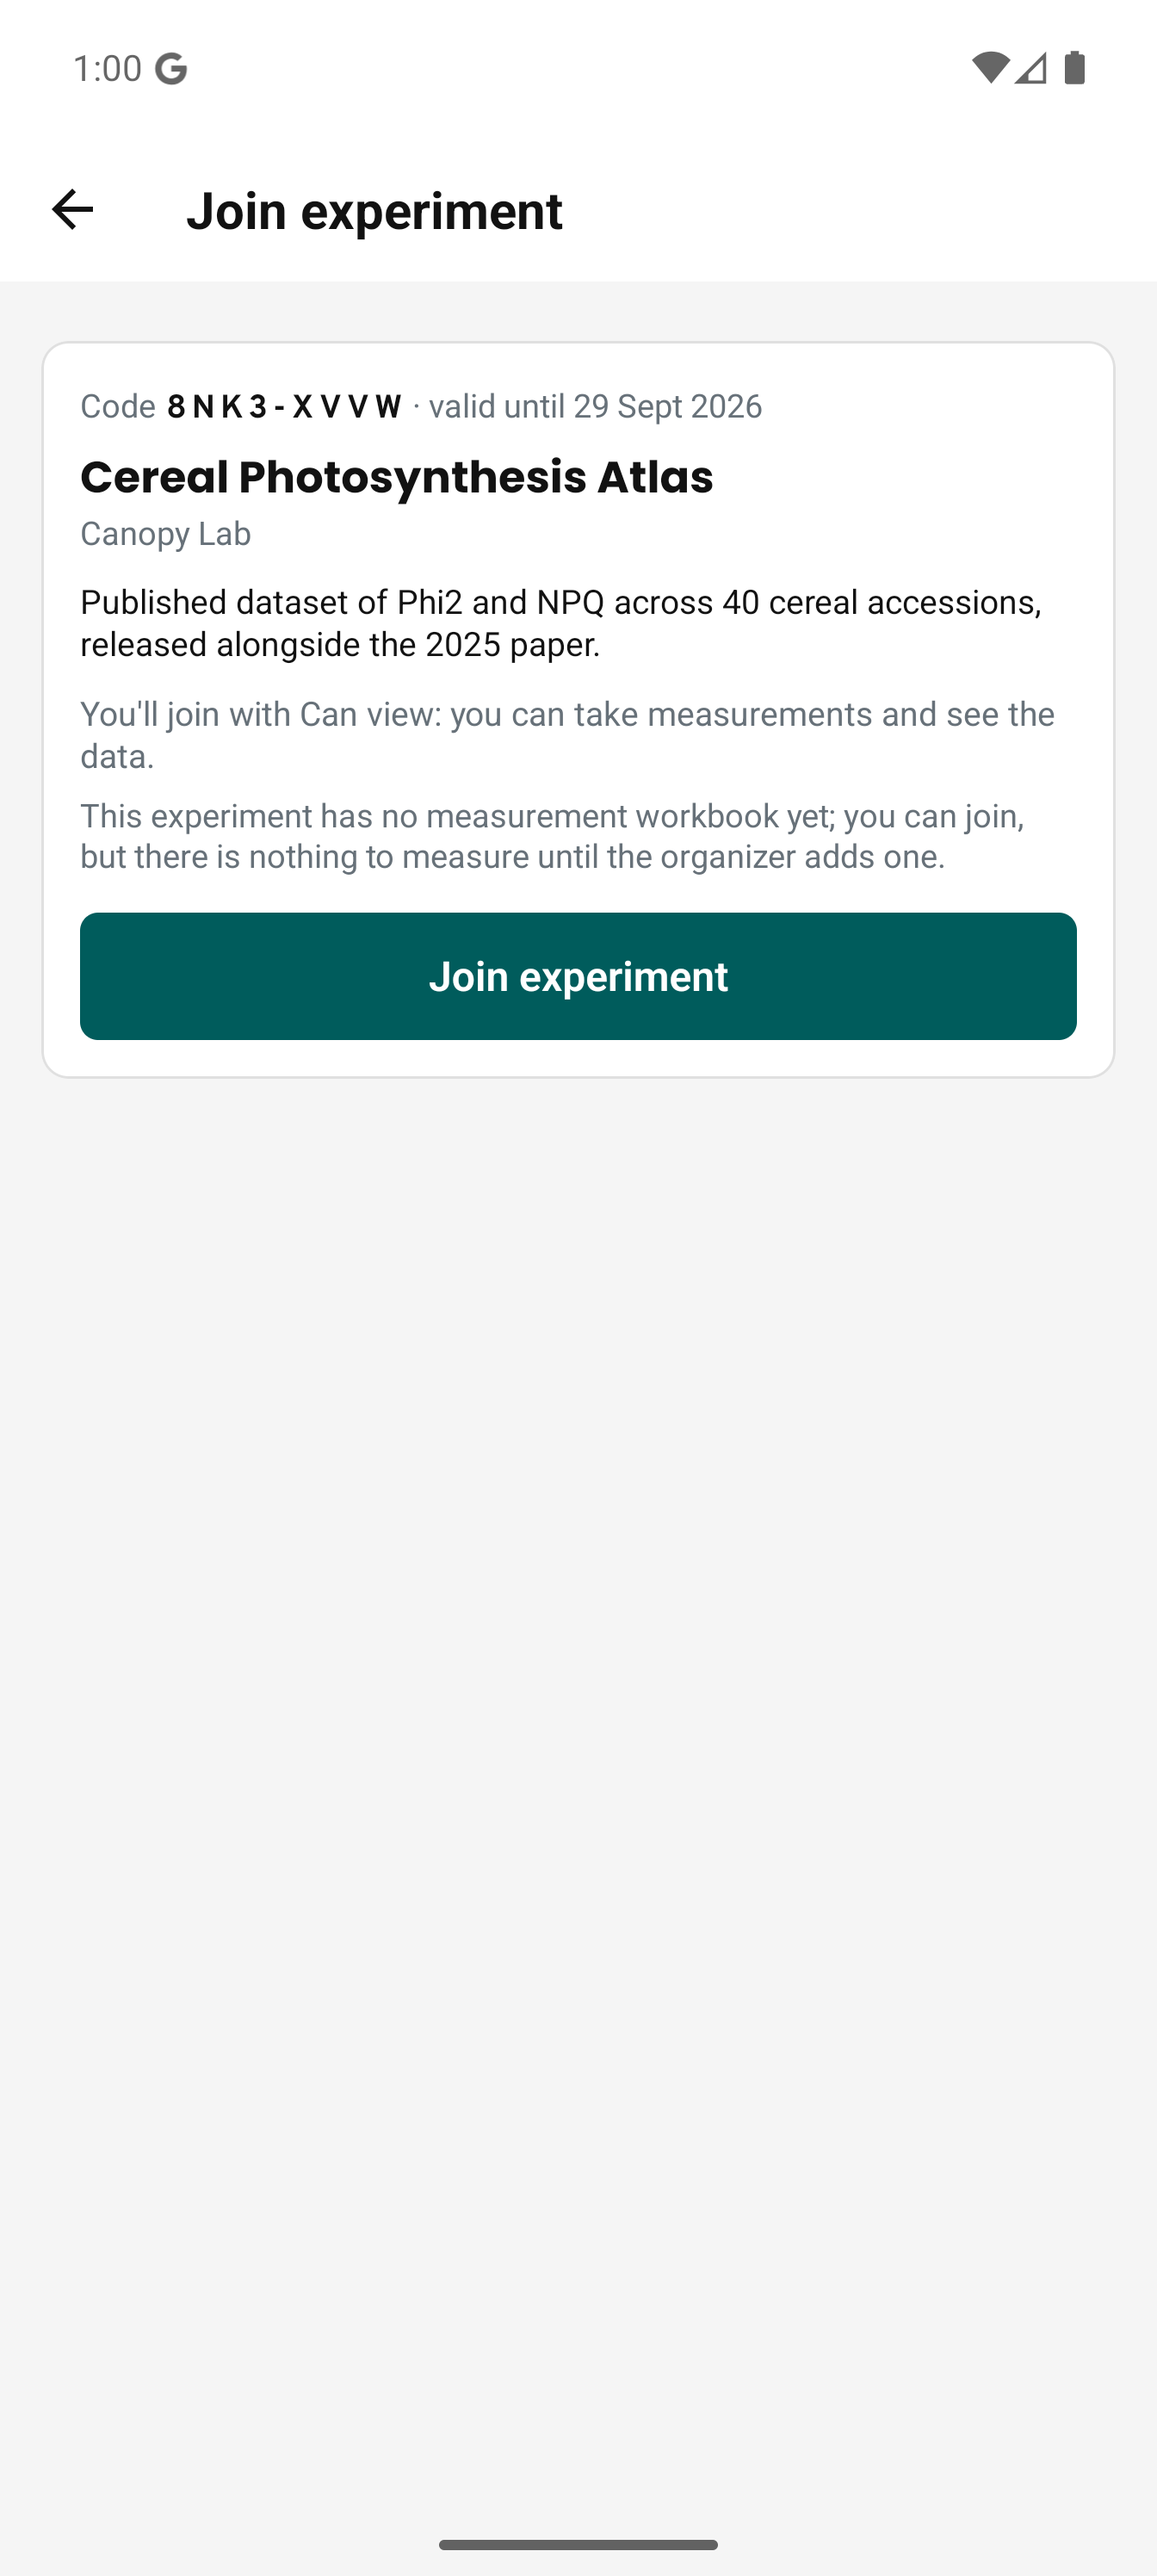
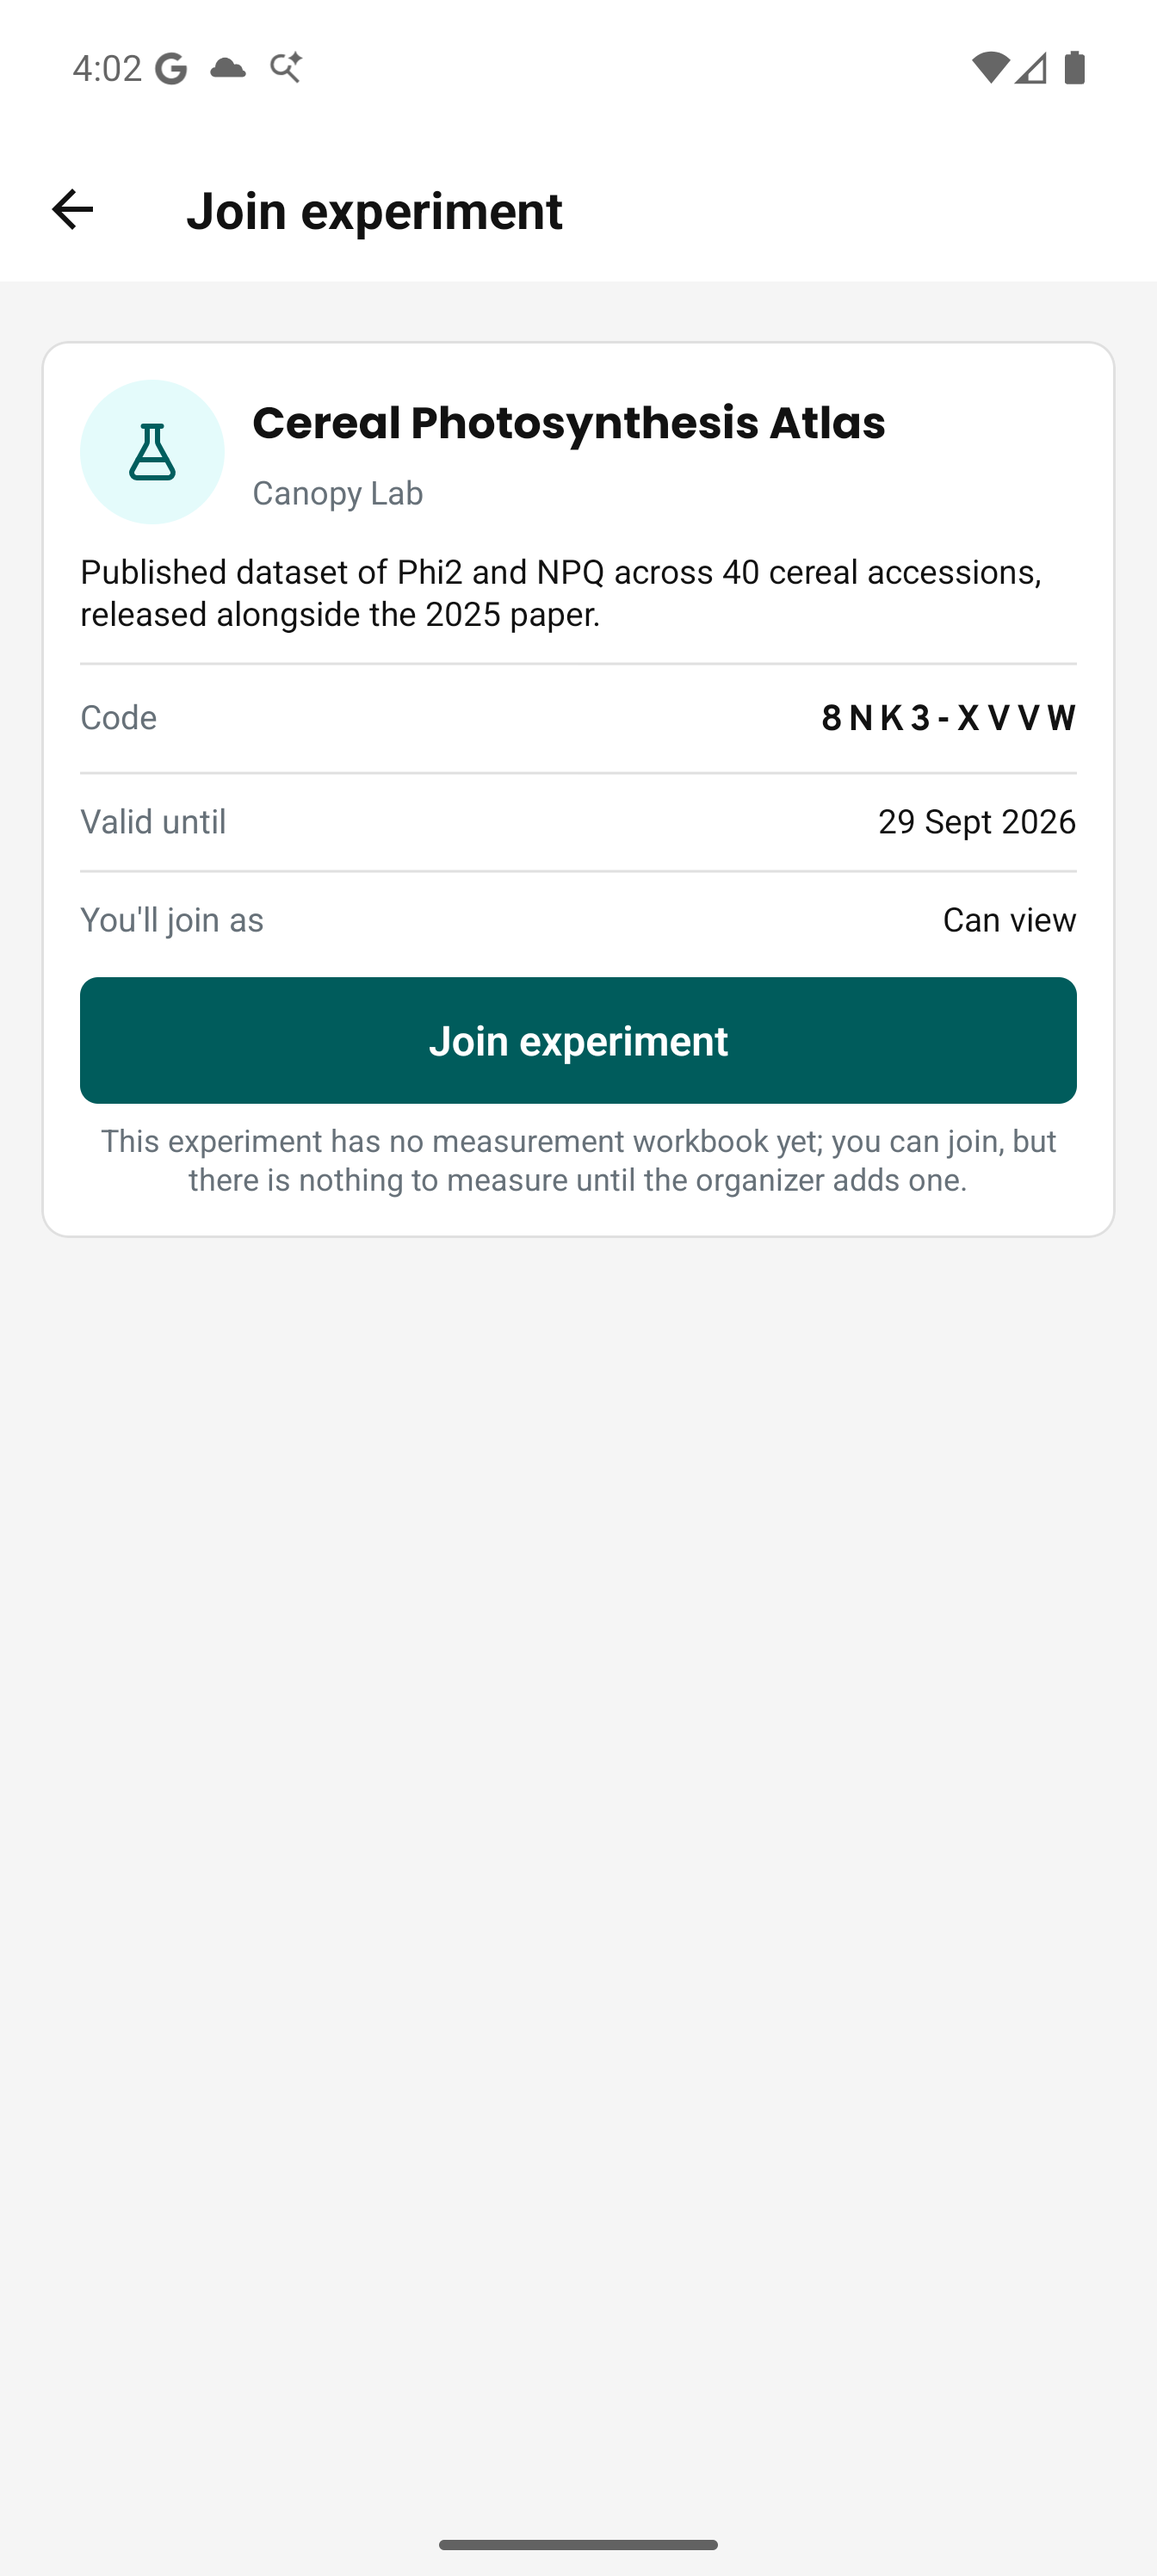
refactor(mobile): make the join-code preview read like the experiment detail
The preview was a grey prose block with the code buried in a metadata
line. It now mirrors the detail card: flask tile, bold name with the
Joined tag when already in, description, then Code, Valid until and
You'll join as in the same divider rows the detail uses, and the button.
The no-workbook note becomes a caption under the button. One shared row
style, defined in the preview card and imported by the screen. Docs frame
re-captured without the ops alert banner.

Changed region(s): [[0.0625, 0.1243, 0.9375, 0.4662], [0.1875, 0.0, 0.2188, 0.0311]]

diff --git a/apps/mobile/src/features/experiments/components/join-code-preview-card.tsx b/apps/mobile/src/features/experiments/components/join-code-preview-card.tsx
@@ -1,14 +1,21 @@
+import { FlaskConical } from "lucide-react-native";
 import { DateTime } from "luxon";
 import React from "react";
 import { Text, View } from "react-native";
+import { ExperimentMembershipTag } from "~/features/experiments/components/experiment-membership-tag";
+import { colors } from "~/shared/constants/colors";
 import { useTranslation } from "~/shared/i18n";
 import { luxonLocale } from "~/shared/i18n/luxon-locale";
+import { Avatar } from "~/shared/ui/Avatar";
 import { Button } from "~/shared/ui/Button";
 import { Card } from "~/shared/ui/Card";
 import { extractTextFromHTML } from "~/shared/utils/extract-text-from-html";
 
 import type { JoinCodePreview } from "@repo/api/domains/experiment/join-codes/experiment-join-codes.schema";
 import { formatJoinCode } from "@repo/api/domains/experiment/join-codes/experiment-join-codes.schema";
+
+export const DETAIL_ROW_CLASS =
+  "border-divider mt-3 flex-row items-center justify-between border-t pt-2.5";
 
 interface JoinCodePreviewCardProps {
   code: string;
@@ -36,9 +43,7 @@ export function JoinCodePreviewCard({
     ? DateTime.fromISO(expiresAt).setLocale(luxonLocale(i18n.language))
     : undefined;
   const validity =
-    expiry?.isValid === true
-      ? t("experiments:joinCode.validUntil", { date: expiry.toFormat("d LLL yyyy") })
-      : t("experiments:joinCode.noExpiry");
+    expiry?.isValid === true ? expiry.toFormat("d LLL yyyy") : t("experiments:joinCode.noExpiry");
 
   // Authored in web's rich-text editor, so it arrives as HTML.
   const description = experiment.description
@@ -47,38 +52,50 @@ export function JoinCodePreviewCard({
 
   return (
     <Card padded>
-      <Text className="text-muted-body text-[12.5px]">
-        {`${t("experiments:joinCode.codeLabel")} `}
-        <Text className="text-on-surface font-overpass-bold tracking-[2px]">
-          {formatJoinCode(code)}
-        </Text>
-        {` · ${validity}`}
-      </Text>
-
-      <Text className="text-on-surface mt-2">{experiment.name}</Text>
-      {experiment.organizationName ? (
-        <Text className="text-muted-body mt-0.5 text-[12.5px]">{experiment.organizationName}</Text>
-      ) : null}
+      <View className="flex-row items-center gap-3">
+        <Avatar size={56} icon={<FlaskConical size={24} color={colors.jii.darkGreen} />} />
+        <View className="min-w-0 flex-1">
+          <View className="flex-row items-center gap-2">
+            <Text
+              className="text-on-surface font-poppins-bold min-w-0 shrink text-[17px] leading-[22px]"
+              numberOfLines={2}
+            >
+              {experiment.name}
+            </Text>
+            <View className="shrink-0">
+              <ExperimentMembershipTag membershipStatus={membershipStatus} />
+            </View>
+          </View>
+          {experiment.organizationName ? (
+            <Text className="text-muted-body mt-0.5 text-[12.5px]">
+              {experiment.organizationName}
+            </Text>
+          ) : null}
+        </View>
+      </View>
 
       {description.length > 0 ? (
         <Text className="text-on-surface mt-3 text-[13px] leading-5">{description}</Text>
       ) : null}
 
-      {isMember ? (
-        <Text className="text-on-surface mt-3 text-[13px] leading-5">
-          {t("experiments:joinCode.alreadyMember")}
+      <View className={DETAIL_ROW_CLASS}>
+        <Text className="text-muted-body text-[13px]">{t("experiments:joinCode.codeLabel")}</Text>
+        <Text className="text-on-surface font-overpass-bold text-[14px] tracking-[2px]">
+          {formatJoinCode(code)}
         </Text>
-      ) : (
-        <Text className="text-muted-body mt-3 text-[13px] leading-5">
-          {t("experiments:joinCode.canViewHint")}
-        </Text>
-      )}
+      </View>
 
-      {experiment.hasWorkbook ? null : (
-        <Text className="text-muted-body mt-2 text-[12.5px] leading-5">
-          {t("experiments:joinCode.noWorkbookHint")}
+      <View className={DETAIL_ROW_CLASS}>
+        <Text className="text-muted-body text-[13px]">{t("experiments:joinCode.validUntil")}</Text>
+        <Text className="text-on-surface text-[13px]">{validity}</Text>
+      </View>
+
+      <View className={DETAIL_ROW_CLASS}>
+        <Text className="text-muted-body text-[13px]">{t("experiments:joinCode.accessLevel")}</Text>
+        <Text className="text-on-surface text-[13px]">
+          {t("experiments:joinCode.accessLevelValue")}
         </Text>
-      )}
+      </View>
 
       <View className="mt-4 gap-2">
         {isMember ? (
@@ -98,6 +115,11 @@ export function JoinCodePreviewCard({
               </Text>
             ) : null}
           </>
+        )}
+        {experiment.hasWorkbook ? null : (
+          <Text className="text-muted-body text-center text-[12px] leading-5">
+            {t("experiments:joinCode.noWorkbookHint")}
+          </Text>
         )}
       </View>
     </Card>

diff --git a/apps/mobile/src/features/experiments/components/join-code-preview-card.test.tsx b/apps/mobile/src/features/experiments/components/join-code-preview-card.test.tsx
@@ -10,24 +10,23 @@ import { JoinCodePreviewCard } from "./join-code-preview-card";
 vi.mock("~/shared/i18n", () => ({
   useTranslation: () => ({
     i18n: { language: "en-US" },
-    t: (key: string, values?: { date?: string }) => {
-      if (key === "experiments:joinCode.validUntil") return `valid until ${String(values?.date)}`;
-      return (
-        {
-          "common:retry": "Retry",
-          "experiments:joinCode.codeLabel": "Code",
-          "experiments:joinCode.noExpiry": "no expiry date",
-          "experiments:joinCode.canViewHint":
-            "You'll join with Can view: you can take measurements and see the data.",
-          "experiments:joinCode.noWorkbookHint": "This experiment has no measurement workbook yet",
-          "experiments:joinCode.join": "Join experiment",
-          "experiments:joinCode.joining": "Joining…",
-          "experiments:joinCode.alreadyMember": "You're already in this experiment",
-          "experiments:joinCode.openExperiment": "Open experiment",
-          "experiments:joinCode.offlineHint": "You're offline. Reconnect to join.",
-        }[key] ?? key
-      );
-    },
+    t: (key: string) =>
+      ({
+        "common:retry": "Retry",
+        "experiments:joinCode.codeLabel": "Code",
+        "experiments:joinCode.validUntil": "Valid until",
+        "experiments:joinCode.noExpiry": "No expiry",
+        "experiments:joinCode.accessLevel": "You'll join as",
+        "experiments:joinCode.accessLevelValue": "Can view",
+        "experiments:joinCode.noWorkbookHint": "This experiment has no measurement workbook yet",
+        "experiments:joinCode.join": "Join experiment",
+        "experiments:joinCode.joining": "Joining…",
+        "experiments:joinCode.openExperiment": "Open experiment",
+        "experiments:joinCode.offlineHint": "You're offline. Reconnect to join.",
+        // ExperimentMembershipTag pins t to the experiments namespace, so its
+        // key arrives bare.
+        "membership.joined": "Joined",
+      })[key] ?? key,
   }),
 }));
 
@@ -74,35 +73,50 @@ describe("JoinCodePreviewCard", () => {
     expect(screen.getByText("Phi2 across the canopy profile.")).toBeTruthy();
   });
 
-  it("shows the code hyphenated, with when it stops working", () => {
-    renderCard(PREVIEW);
+  describe("the label/value rows, matching the detail card it lands on", () => {
+    it("shows the code hyphenated", () => {
+      renderCard(PREVIEW);
 
-    expect(screen.getByText("KP7Q-4WMX")).toBeTruthy();
-    expect(screen.getByText(/valid until 25 Sept? 2026/u)).toBeTruthy();
+      expect(screen.getByText("Code")).toBeTruthy();
+      expect(screen.getByText("KP7Q-4WMX")).toBeTruthy();
+    });
+
+    it("shows when the code stops working", () => {
+      renderCard(PREVIEW);
+
+      expect(screen.getByText("Valid until")).toBeTruthy();
+      expect(screen.getByText(/25 Sept? 2026/u)).toBeTruthy();
+    });
+
+    it("says a code without an expiry has none, rather than showing an empty date", () => {
+      renderCard({ ...PREVIEW, expiresAt: null });
+
+      expect(screen.getByText("Valid until")).toBeTruthy();
+      expect(screen.getByText("No expiry")).toBeTruthy();
+    });
+
+    it("names the access level the code grants", () => {
+      renderCard(PREVIEW);
+
+      expect(screen.getByText("You'll join as")).toBeTruthy();
+      expect(screen.getByText("Can view")).toBeTruthy();
+    });
   });
 
-  it("says a code without an expiry has none, rather than showing an empty date", () => {
-    renderCard({ ...PREVIEW, expiresAt: null });
-
-    expect(screen.getByText(/no expiry date/u)).toBeTruthy();
-  });
-
-  it("offers Join with the Can view sentence to someone not yet in", () => {
+  it("offers Join, and no membership tag, to someone not yet in", () => {
     renderCard(PREVIEW);
 
-    expect(
-      screen.getByText("You'll join with Can view: you can take measurements and see the data."),
-    ).toBeTruthy();
+    expect(screen.queryByText("Joined")).toBeNull();
 
     fireEvent.press(screen.getByText("Join experiment"));
     expect(onJoin).toHaveBeenCalledOnce();
     expect(screen.queryByText("Open experiment")).toBeNull();
   });
 
-  it("offers Open experiment, not Join, to someone already in", () => {
+  it("tags a member and offers Open experiment, not Join", () => {
     renderCard({ ...PREVIEW, membershipStatus: "member" });
 
-    expect(screen.getByText("You're already in this experiment")).toBeTruthy();
+    expect(screen.getByText("Joined")).toBeTruthy();
     expect(screen.queryByText("Join experiment")).toBeNull();
 
     fireEvent.press(screen.getByText("Open experiment"));

diff --git a/apps/mobile/src/features/experiments/screens/experiment-detail-screen/experiment-detail-screen.tsx b/apps/mobile/src/features/experiments/screens/experiment-detail-screen/experiment-detail-screen.tsx
@@ -7,6 +7,7 @@ import { ExperimentJoinCta } from "~/features/experiments/components/experiment-
 import { ExperimentMembershipTag } from "~/features/experiments/components/experiment-membership-tag";
 import { ExperimentOpenOnWebButton } from "~/features/experiments/components/experiment-open-on-web-button";
 import { ExperimentUnavailable } from "~/features/experiments/components/experiment-unavailable";
+import { DETAIL_ROW_CLASS } from "~/features/experiments/components/join-code-preview-card";
 import { useExperimentAccess } from "~/features/experiments/hooks/use-experiment-access";
 import { colors } from "~/shared/constants/colors";
 import { useTranslation } from "~/shared/i18n";
@@ -22,8 +23,6 @@ import { ellipsize } from "~/shared/utils/ellipsize";
 import { extractTextFromHTML } from "~/shared/utils/extract-text-from-html";
 
 const DESCRIPTION_PREVIEW_LENGTH = 220;
-
-const ROW_CLASS = "border-divider mt-3 flex-row items-center justify-between border-t pt-2.5";
 
 export function ExperimentDetailScreen() {
   const { id } = useLocalSearchParams<{ id: string }>();
@@ -150,7 +149,7 @@ export function ExperimentDetailScreen() {
         ) : null}
 
         {hasCollaborators ? (
-          <View className={ROW_CLASS}>
+          <View className={DETAIL_ROW_CLASS}>
             <Text className="text-muted-body text-[13px]">
               {t("experiments:detail.collaboratorsLabel")}
             </Text>
@@ -159,7 +158,7 @@ export function ExperimentDetailScreen() {
         ) : null}
 
         {since ? (
-          <View className={ROW_CLASS}>
+          <View className={DETAIL_ROW_CLASS}>
             <Text className="text-muted-body text-[13px]">{t("experiments:detail.since")}</Text>
             <Text className="text-on-surface text-[13px]">{since}</Text>
           </View>
